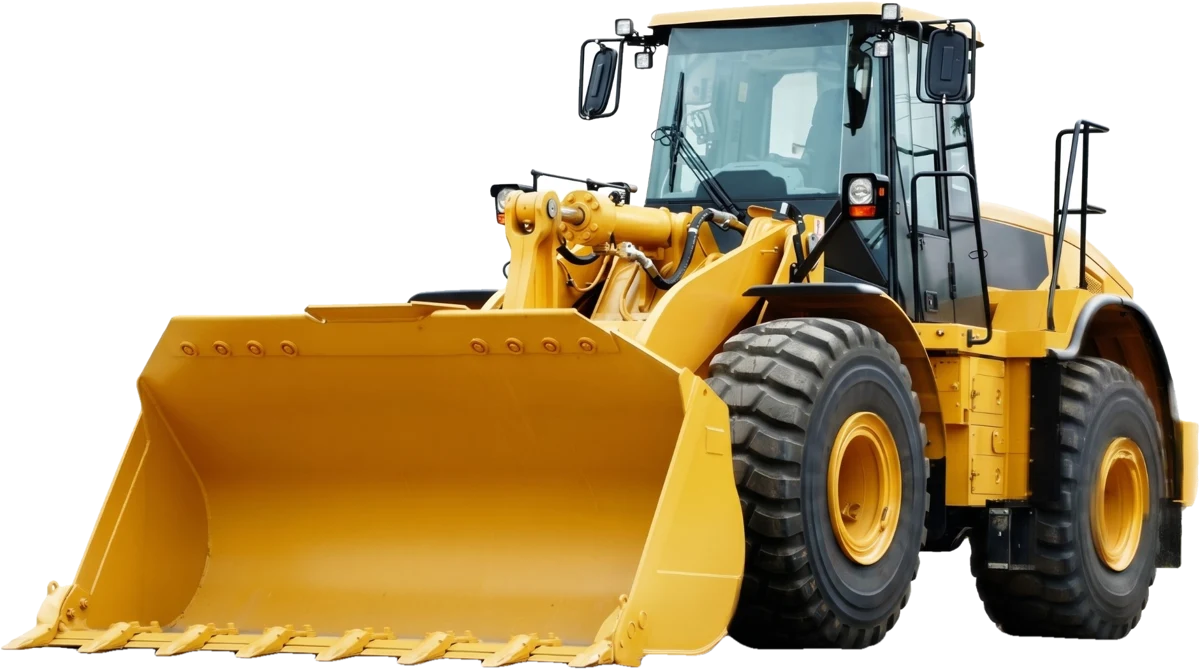
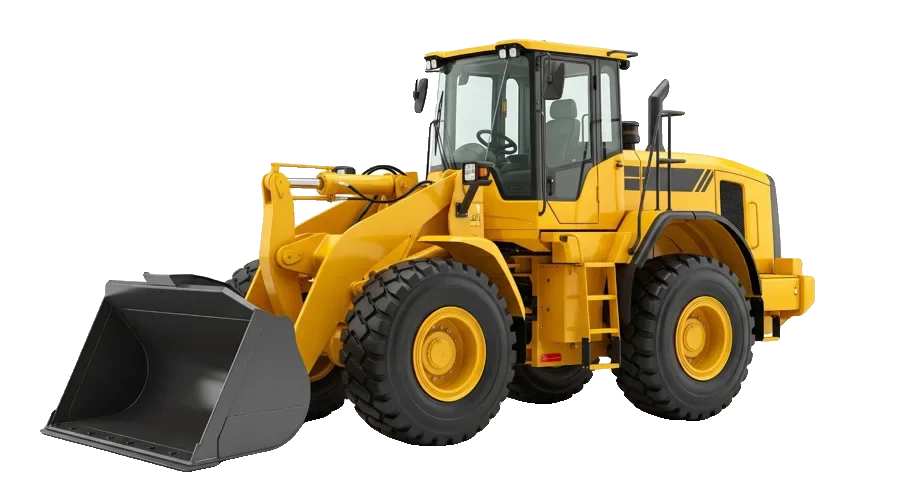
feat(vehicles): lab-only larger photos (big loader, trailer head) under trucks/lab; other pages keep the original category photos

diff --git a/src/lib/vehicleFuel.ts b/src/lib/vehicleFuel.ts
@@ -532,7 +532,7 @@ const CATEGORY: Record<string, { label: string; image: string; door: [number, nu
 /** المساحة الشفافة تحت العجلات في صورة كل فئة (نسبة من ارتفاع الصورة)، لإنزال العربة حتى تقف على الأرض */
 const IMAGE_GROUND: Record<string, number> = {
   a: 0.062, at: 0.048, bs: 0.082, head: 0.077, hf: 0.141, hr: 0.042, hw: 0.113, k: 0.048, ka: 0.238, kb: 0.026,
-  kh: 0.138, kn: 0.08, ks: 0.058, l: 0.044, m: 0.062, r: 0.062, sf: 0.046, sf1: 0, sl: 0.056, sr: 0.068,
+  kh: 0.138, kn: 0.08, ks: 0.058, l: 0.044, m: 0.062, r: 0.062, sf: 0.046, sf1: 0.06, sl: 0.056, sr: 0.068,
 };
 export const imageGround = (url: string) => IMAGE_GROUND[/\/types\/([\w-]+)\.webp$/.exec(url)?.[1] || ''] || 0;
 
@@ -559,3 +559,11 @@ export const vehicleCategory = (code: string): VehicleCategory | null => {
 
 /** صورة العربة: صورتها الخاصة إن وُجدت، ثم صورة فئتها، ثم الصورة العامة */
 export const vehicleImage = (code: string, photo?: string) => photo || vehicleCategory(code)?.image || '/trucks/semi_truck.jpg';
+
+/** صور أكبر وأدق خاصة بمختبر العربة (مقصوصة على حدودها، لا فراغ تحت العجلات)، وما لا صورة له يرجع لصورة فئته */
+const LAB_IMAGES = new Set(['head', 'sf1']);
+export const labImage = (code: string, photo?: string) => {
+  if (photo) return photo;
+  const key = vehicleCategory(code)?.key.toLowerCase();
+  return key && LAB_IMAGES.has(key) ? `/trucks/lab/${key}.webp` : vehicleImage(code);
+};

diff --git a/src/components/vehicles/VehicleLab.tsx b/src/components/vehicles/VehicleLab.tsx
@@ -3,7 +3,7 @@ import React, { useMemo, useRef, useState } from 'react';
 import { FlaskConical, FileSpreadsheet, Loader2 } from 'lucide-react';
 import { useSyncedStorage } from '../../lib/useSyncedStorage';
 import {
-  VEHICLE_PROFILES_KEY, imageGround, vehicleImage,
+  VEHICLE_PROFILES_KEY, imageGround, labImage,
   type DayFill, type VehicleProfile, type VehicleRefill,
 } from '../../lib/vehicleFuel';
 import { VEHICLE_REGISTRY_KEY, readVehicleRegistry, type VehicleRegistryEntry } from '../../lib/vehicleRegistry';
@@ -84,7 +84,7 @@ export const VehicleLab: React.FC<{
   const profile = profiles.find(p => p.id === vehicle);
   const code = (profile?.name || vehicle).trim();
   const reg = registry.find(r => r.id === code.toUpperCase()) || registry.find(r => r.id === vehicle.toUpperCase());
-  const url = vehicleImage(code, profile?.photo);
+  const url = labImage(code, profile?.photo);
 
   const [range, setRange] = useState<Range>('month');
   const [importing, setImporting] = useState<string | null>(null);
